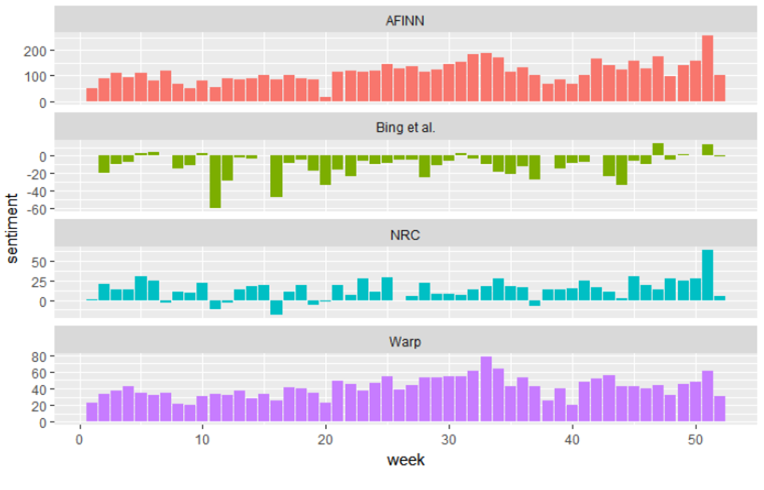
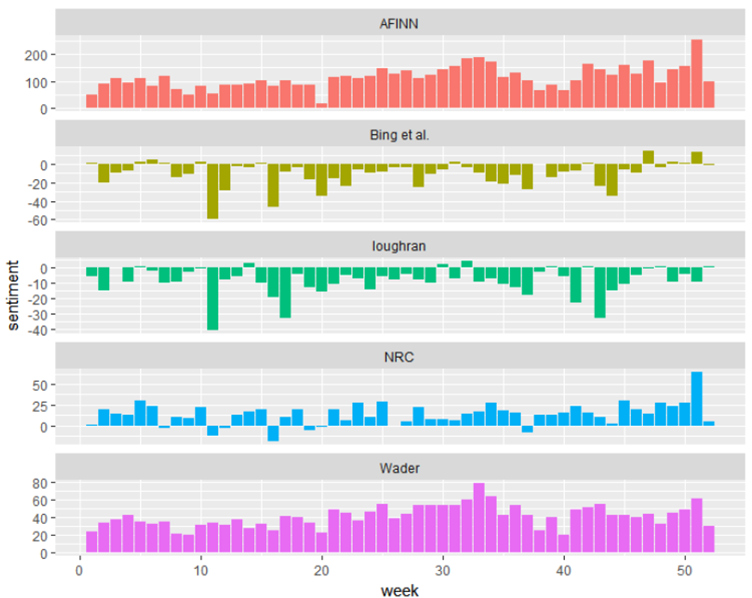
update

diff --git a/Reporting/Woertbuchana.tex b/Reporting/Woertbuchana.tex
@@ -8,8 +8,8 @@ Mit mehreren Optionen für Sentiment Wörterbücher, ist es erforderlich mehr In
 	\caption{Vergleich von Sentimentindizes der Wörterbücher \textit{Bing}, \textit{NRC}, \textit{Wader} und \textit{Afinn}, \textit{Loughran}}
 	\label{senti}
 \end{figure}
-Es sind ähnliche Einbrüche und Stimmungsspitzen an ungefähr den gleichen Stellen im Plot der Sentimentindizes zuerkennen, aber die absoluten Werte sind signifikant unterschiedlich. Das \textit{AFINN}$\-$ und \textit{Wader} Wörterbuch geben die größten absoluten Werte an, mit hohen positiven Werten. Das Wörterbuch von \textit{Bing} hat niedrigere Absolutwerte und scheint größere Blöcke zusammenhängenden positiven oder negativen Textes zu bezeichnen. Die \textit{NRC} und \textit{Wader
-}$\-$Ergebnisse sind im Vergleich zu den beiden anderen in der Höhe verschoben, wodurch der Text positivere Werte verzeichnet, aber ähnliche relative Veränderungen im Text erkannt werden. Wir finden ähnliche Unterschiede zwischen den Methoden, wenn wir uns andere Tweets anschauen; das \textit{NRC}$\-$Sentiment ist hoch, das \textit{AFINN}$\-$Sentiment hat mehr Varianz, \textit{Warp} hat ein ähnliches Verhalten, wie das \textit{NRC}$\-$Sentiment, das \textit{Bing} sentiment scheint Wochen die nahe bei einander liegen ähnlichen zu zu bewerten, aber alle vier sind sich über die allgemeinen Tendenzen des Sentimentes einig.
+Es sind ähnliche Einbrüche und Stimmungsspitzen an ungefähr den gleichen Stellen im Plot der Sentimentindizes zuerkennen, aber die absoluten Werte sind signifikant unterschiedlich. Das \textit{AFINN}$\-$ und \textit{Wader} Wörterbuch geben die größten absoluten Werte an, mit hohen positiven Werten. Das Wörterbuch von \textit{Bing} und \textit{loughran} besitzen die niedrigsten Absolutwerte. Die \textit{NRC} und \textit{Wader
+}$\-$Ergebnisse sind im Vergleich zu den beiden anderen in der Höhe verschoben, wodurch der Text positivere Werte verzeichnet, aber ähnliche relative Veränderungen im Text erkannt werden. Wir finden ähnliche Unterschiede zwischen den Methoden, wenn wir uns andere Tweets anschauen; das \textit{NRC}$\-$Sentiment ist hoch, das \textit{AFINN}$\-$Sentiment hat mehr Varianz, \textit{Wader} hat ein ähnliches Verhalten, wie das \textit{NRC}$\-$Sentiment, der \textit{Bing} und \textit{loughran} Sentimentindex scheinen Wochen die nahe bei einander liegen ähnlichen zu bewerten. Alle fünf Wörterbücher weisen unabhängig von ihren Sentimentindizes ein ähnliche Tendenz auf.
 
 Warum weißt z.B. das Ergebnis für das \textit{NRC}$\-$Wörterbuch im Vergleich zum \textit{Bing et al.} eine positivere Stimmung?  Hierzu wird geprüft, wie viele positive und negative Wörter in diesen Wörterbüchern enthalten sind.
 Das Wörterbuch \textit{NRC} besitzt $3324$ negative und $2312$ positive Wörter. Im Gegensatz beträgt das Lexika \textit{Bing} $4782$ negative und $2006$ positive Wörter, damit besitzt die Wörterliste \textit{Bing} eine größere Anzahl von positiven Wörter. 
